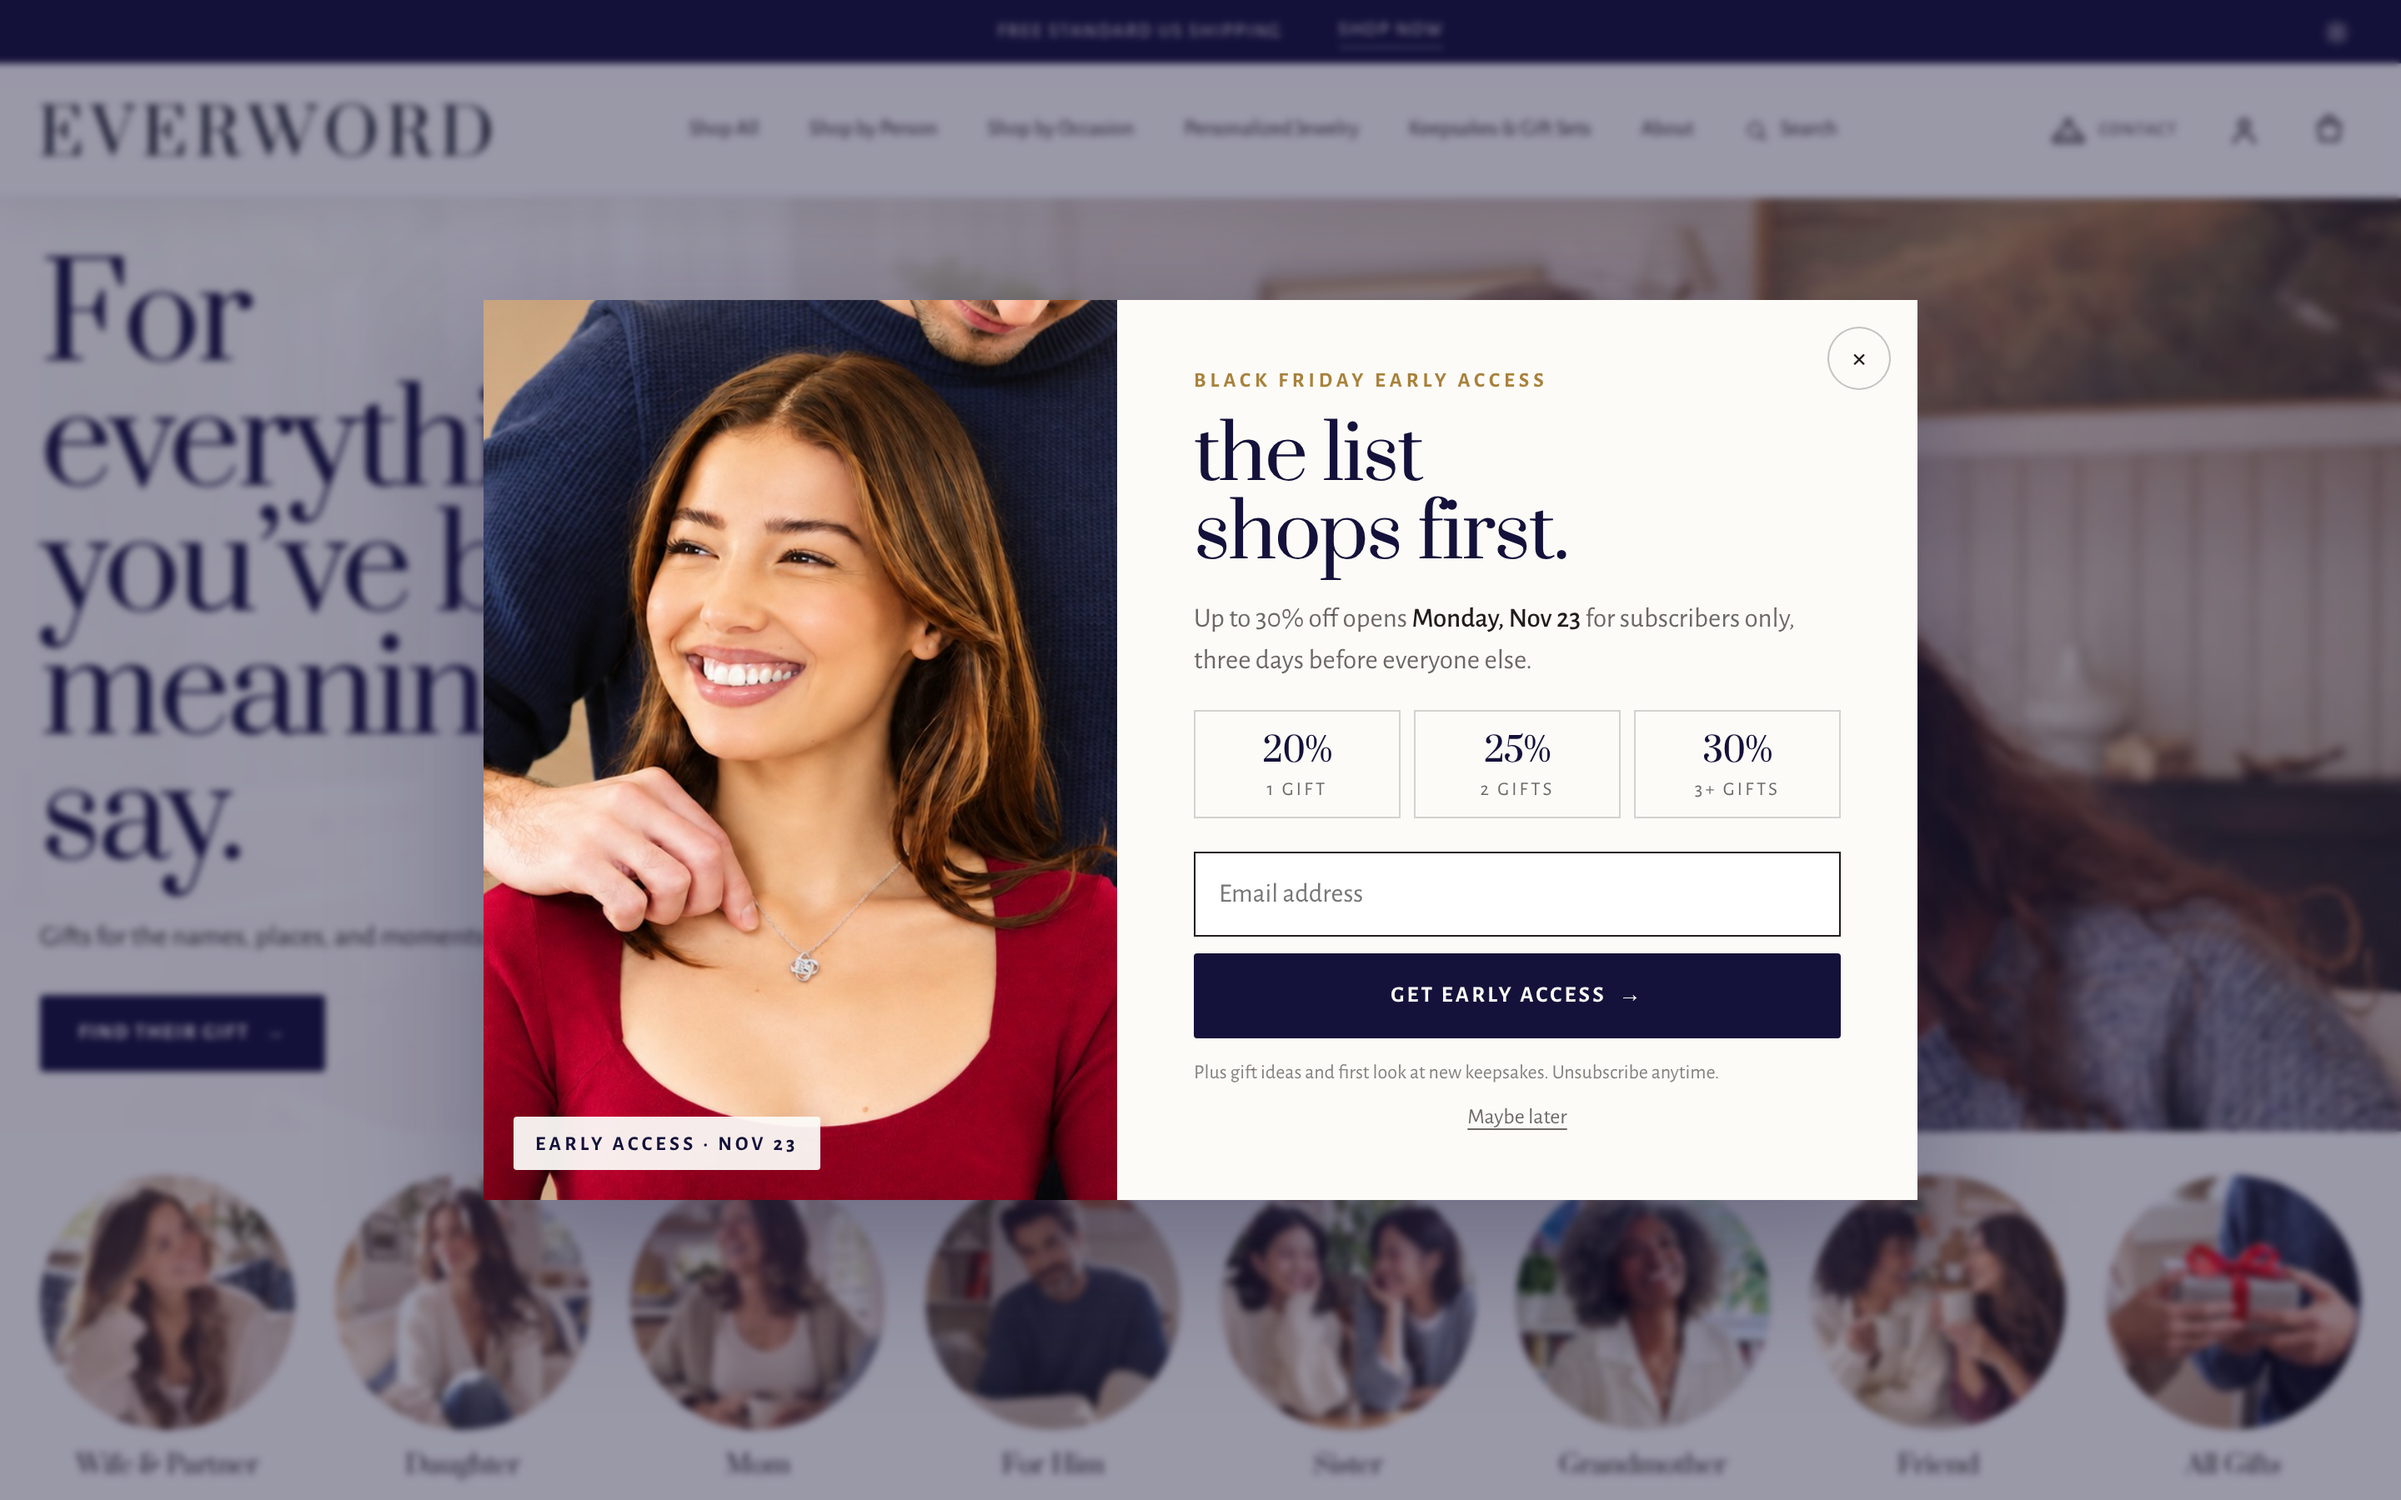
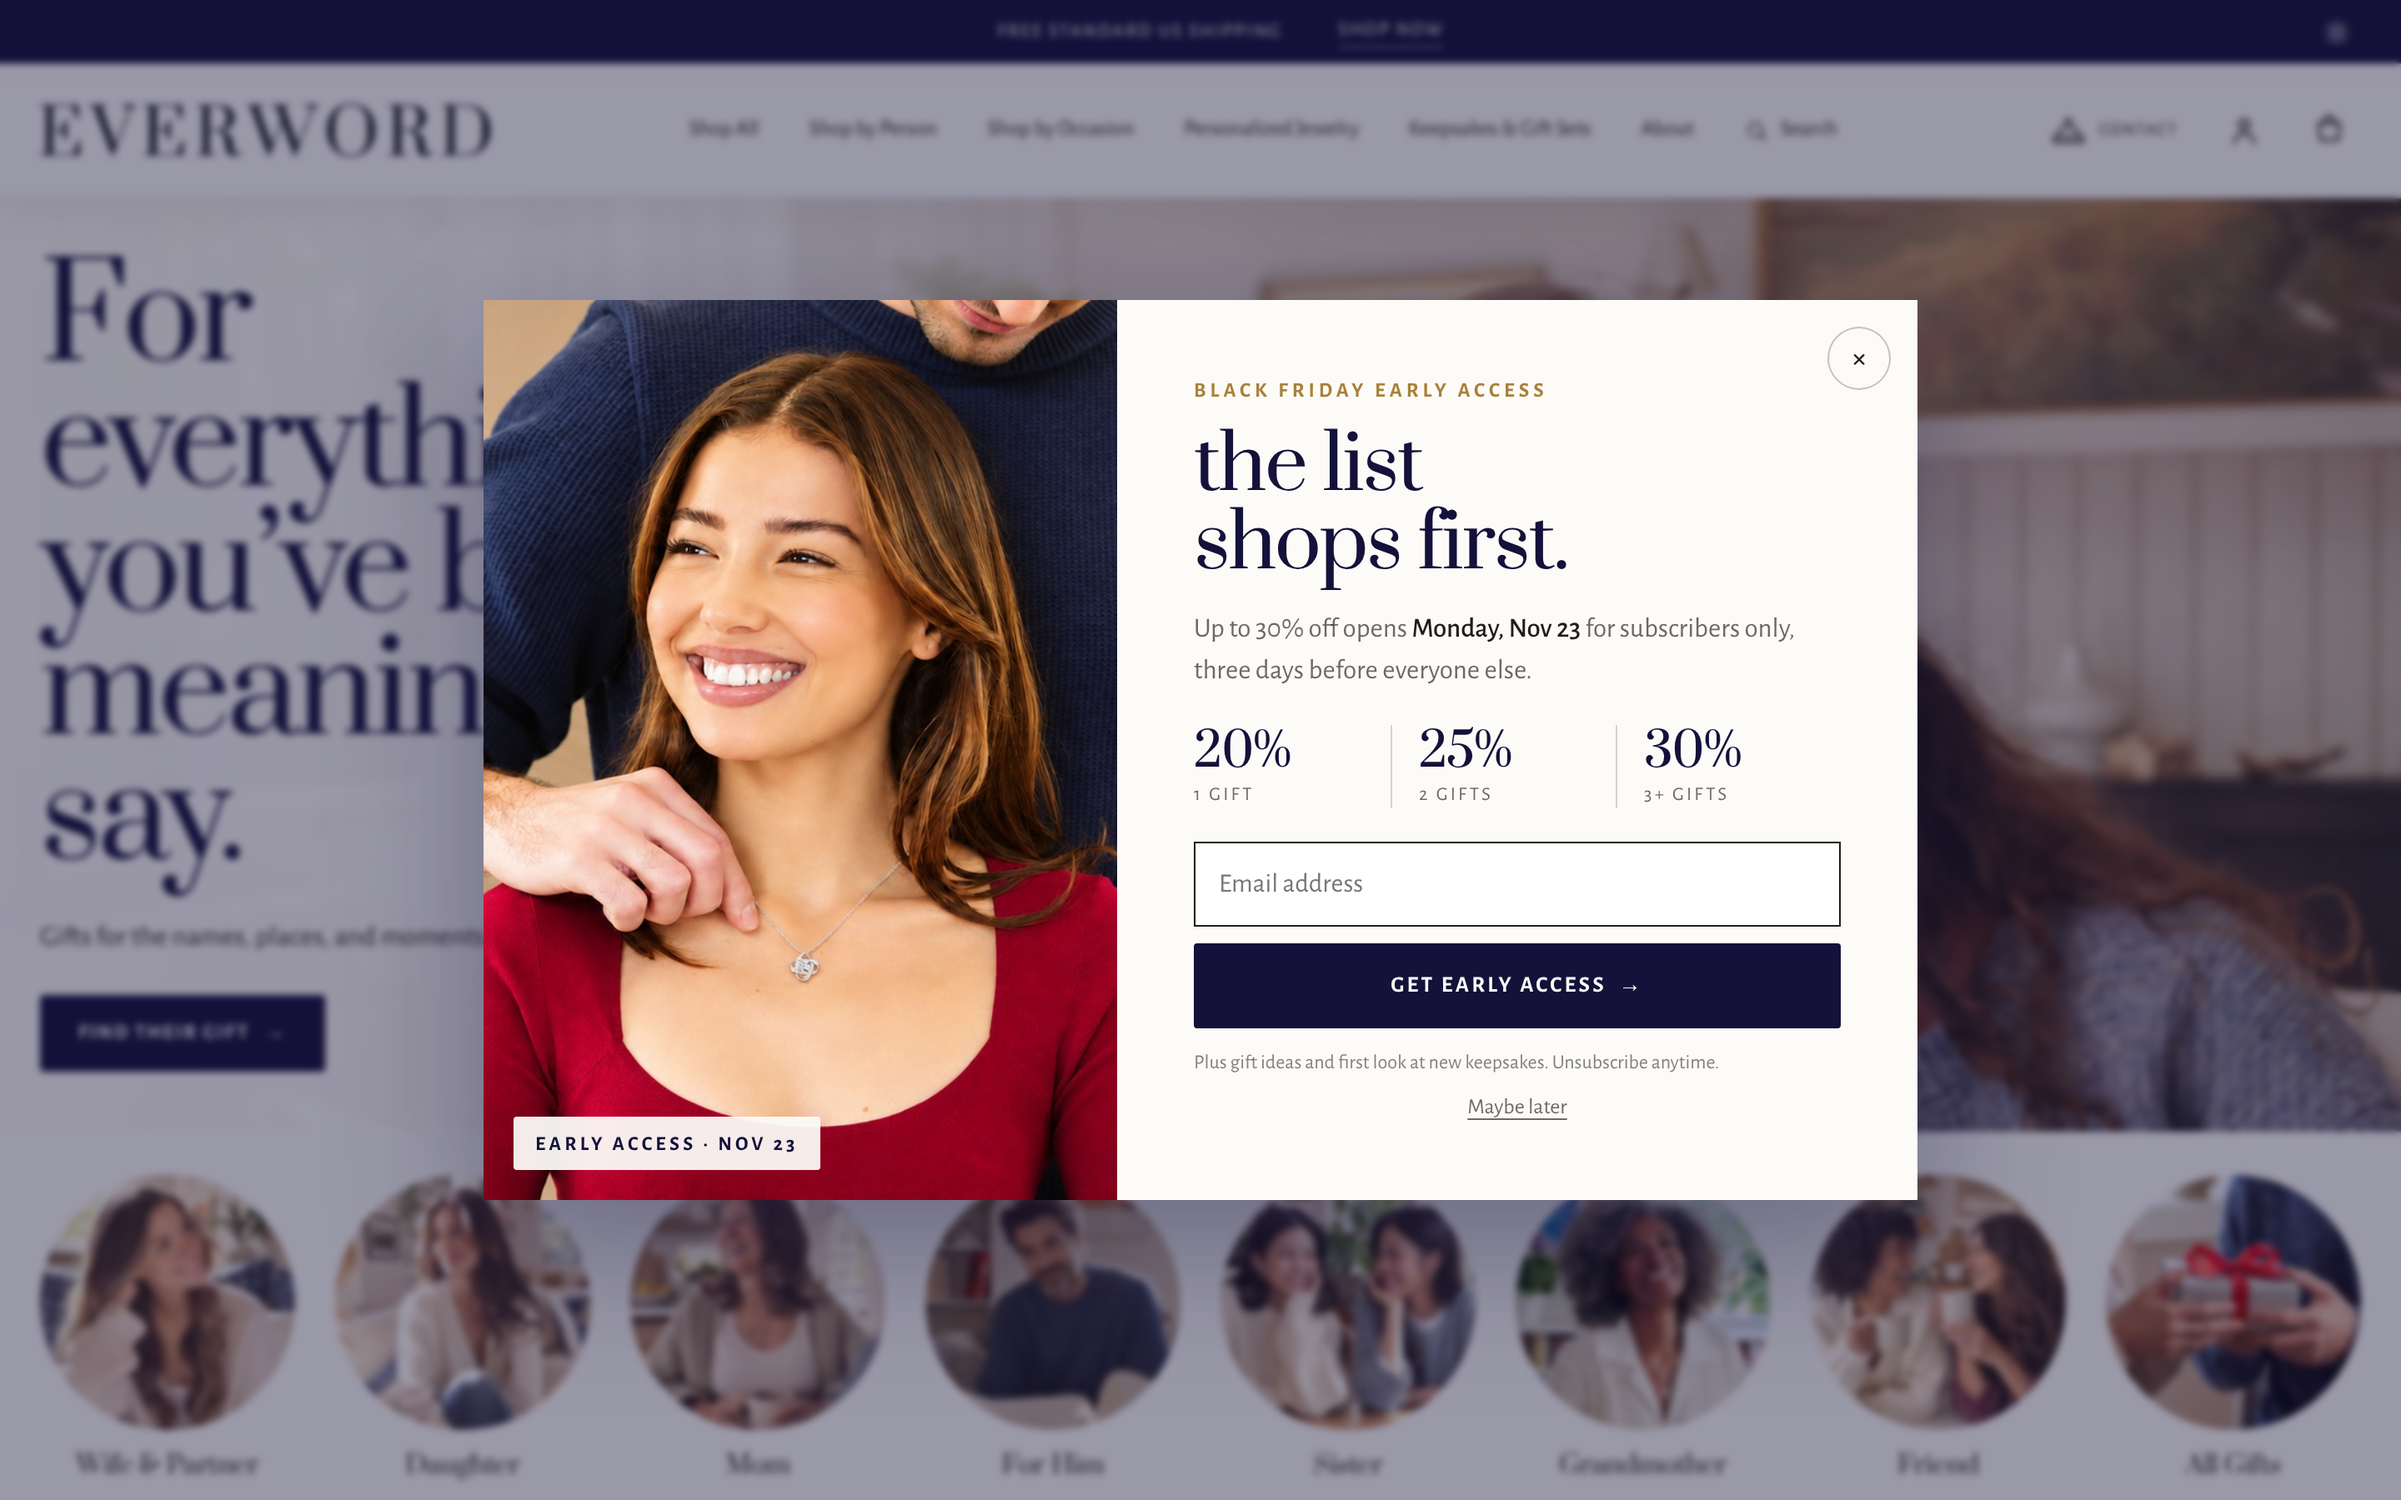
Nov 23 early-access email (copy and mockup); pop-up tiers restyled as info, not buttons
Claude-Session: https://claude.ai/code/session_01S6wZWBwHuDketXKY2fWG9m

diff --git a/assets/everword-shopify.css b/assets/everword-shopify.css
@@ -190,10 +190,11 @@ cart-items-component button[name='checkout'] {
   margin:0 0 22px;font-family:'Alegreya Sans',sans-serif;font-weight:300;
   font-size:14px;line-height:1.7;color:var(--cream-dim);max-width:38ch;
 }
-.ew-optin__tiers{display:grid;grid-auto-flow:column;grid-auto-columns:1fr;gap:8px;margin:0 0 20px}
-.ew-optin__tier{border:1px solid var(--line);padding:10px 6px;text-align:center}
-.ew-optin__tier-n{display:block;font-family:'Prata',serif;font-size:20px;line-height:1.1;color:var(--cream)}
-.ew-optin__tier-w{display:block;margin-top:3px;font-family:'Alegreya Sans',sans-serif;font-size:11px;letter-spacing:.14em;text-transform:uppercase;color:var(--cream-dim)}
+.ew-optin__tiers{display:grid;grid-auto-flow:column;grid-auto-columns:1fr;margin:2px 0 24px}
+.ew-optin__tier{padding:2px 0 2px 16px;border-left:1px solid var(--line)}
+.ew-optin__tier:first-child{padding-left:0;border-left:0}
+.ew-optin__tier-n{display:block;font-family:'Prata',serif;font-size:26px;line-height:1.05;letter-spacing:-.02em;color:var(--cream)}
+.ew-optin__tier-w{display:block;margin-top:4px;font-family:'Alegreya Sans',sans-serif;font-size:11px;letter-spacing:.14em;text-transform:uppercase;color:var(--cream-dim)}
 .ew-optin__form{display:flex;gap:0;border-bottom:1px solid var(--line)}
 .ew-optin__form input{
   flex:1;min-width:0;background:none;border:0;padding:13px 2px;outline:none;

diff --git a/ads/email/nov23-early-access.md b/ads/email/nov23-early-access.md
@@ -1,0 +1,53 @@
+# Nov 23 early-access email
+
+**Send:** Monday Nov 23, about 7 AM ET
+**To:** customers tagged `bf-early-access` (or your whole subscriber list)
+**Mockup:** `email-nov23.png`
+
+## Subject line (A/B test the first two)
+- A: the list shops first.
+- B: you're in: up to 30% off, before everyone
+- Backup: 3 days before everyone else
+
+**Preview text:** Up to 30% off, three days before everyone else. Opens to the public Thursday.
+
+## Body (top to bottom)
+
+**Top bar:** Subscriber early access · open now
+
+**Image:** the couple photo (necklace being fastened)
+
+**Eyebrow:** Black Friday early access
+**Heading:** the list shops first.
+
+You asked to be first, so here you are. Our Black Friday sale is open to **subscribers only**, starting today, three days before everyone else.
+
+The more people on your list, the more you save:
+
+| 20% | 25% | 30% |
+|---|---|---|
+| 1 gift | 2 gifts | 3+ gifts |
+
+**Button:** Shop early access →  (link: your gift or sale collection)
+**Under the button:** Discount applied at checkout · free standard US shipping
+
+**Section heading:** start with who it's for
+Six round photos, each linking to its collection: For her · For mom · For him · For the little ones · For grandma · For the family
+
+**Deadline box:** **Dec 15**. Order by Dec 15 for Christmas. Every piece is made just for them, so the earlier you order, the less you'll worry.
+
+**Sign-off:** for everything you've been meaning to say.
+With love, Everword
+
+**P.S.** Early access ends when the sale opens to everyone on **Thursday, Nov 26**. Until then, it's just you.
+
+## Making the discount work
+A single Shopify discount code can't change its percentage with the number of items, so pick one:
+
+1. **Simplest (recommended):** turn on the three tiered automatic discounts on Nov 23 instead of Nov 26. If your admin offers customer eligibility on automatic discounts, limit them to the `bf-early-access` segment. If it doesn't, leaving them open for three days is fine, because nothing public announces the sale until Nov 26. No code means no friction at checkout.
+2. **Code only for subscribers:** install a tiered-discount app (Shopify Functions based) so one code, e.g. `LIST`, gives 20/25/30%. Add "Use code LIST at checkout" under the button.
+
+## Follow-up
+**Wed Nov 25, 6 PM ET**, to subscribers who haven't ordered:
+- Subject: early access ends tonight
+- One line: "Tomorrow the sale opens to everyone. Tonight it's still just you." Same tiers and button.
